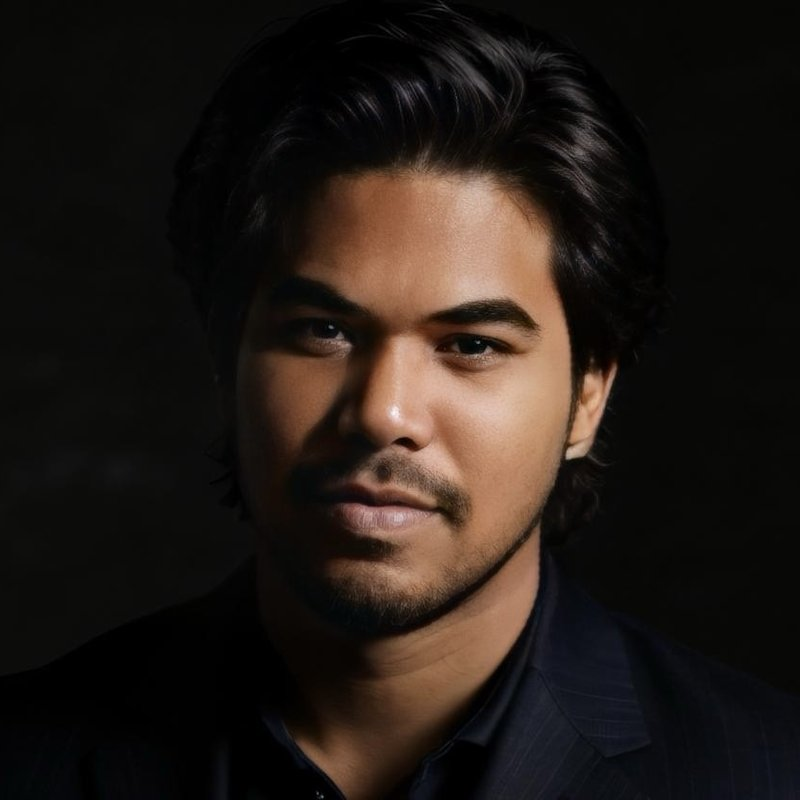
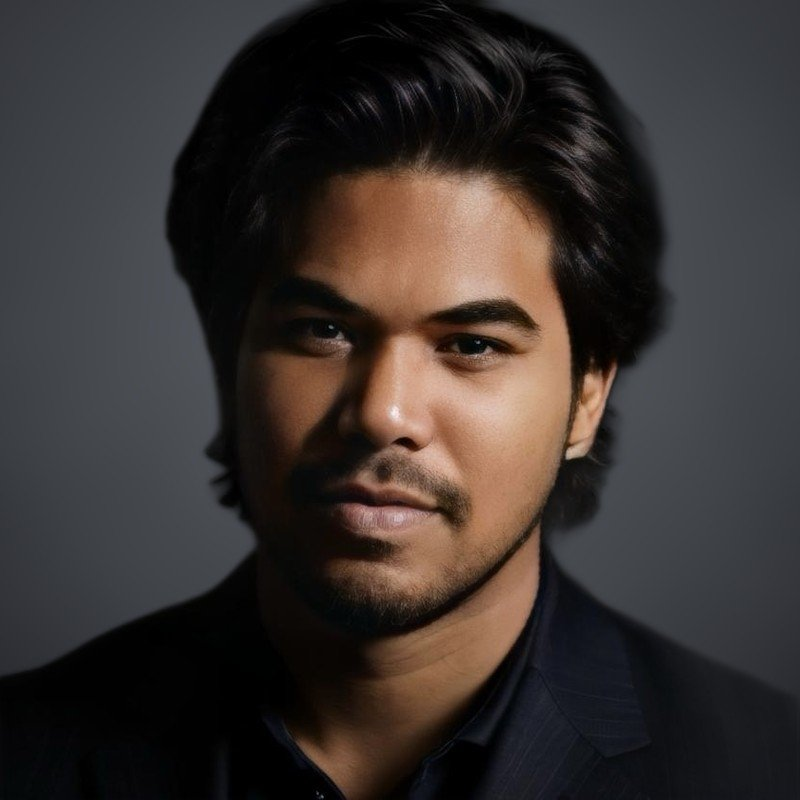
About v1.24: team photos on one charcoal studio backdrop
Claude-Session: https://claude.ai/code/session_012BtyR2i9F3thygBCepPExM

diff --git a/CLAUDE.md b/CLAUDE.md
@@ -17,7 +17,7 @@ Read `README.md` first. Its **Version register** is the single record of which v
 - Always write "virtual Grand Rounds" with a lower-case v.
 - Key figures sit high on the page.
 - Section spacing (agreed 25 Oct 2026): 54px above and below each section on the hub pages (44px on phones), 80px on the homepage (58px on phones); section headings 32px (homepage 44px) above their content.
-- Photos have rounded corners: 12px for photos and video frames, 8px for small thumbnails. Photos of people in team and speaker lists are circles. Full-width background photos (such as the homepage hero) stay square-edged.
+- Photos have rounded corners: 12px for photos and video frames, 8px for small thumbnails. Photos of people in team and speaker lists are circles. Team photos all share one charcoal studio backdrop (his choice, 18 Nov 2026): cut the person out and place them on it, never altering the person; see `assets/team/README.md`. Full-width background photos (such as the homepage hero) stay square-edged.
 - Every page must be SEO-ready: title, description, canonical, Open Graph and JSON-LD.
 - **Patient information pages share one design** (agreed 15 Nov 2026): `_layouts/patient-guide.html`. Each page file holds only its details and text; see "Patient guides" in `README.md`. Every guide has an "In brief" box. Guides use plain headings: Professor Lim removed the numbered steps from Your consultation and Your operation on 15 Nov 2026 ("the numbers don't work"). Your recovery still has them until he reviews it; expect the same. The header has one round picture set in the stone, unique to the page and not a portrait of Professor Lim (exception, his choice on 16 Nov 2026: Your operation shows a real photo of him operating, cropped around his head; AI pictures must never show him). Lists use dots, not dashes. A single word stranded on the last line of an "In brief" point or a paragraph looks jarring to him; the layout avoids it (`text-wrap: pretty`), and wording should still be checked at desktop width. Do not split two-line points evenly (`balance`): he prefers a full first line. Keep each guide visually even: sections of similar length in plain prose paragraphs, without mixing bold lead-ins, bullet lists and one-sentence paragraphs on one page (his comment on Your operation, 15 Nov 2026). References are shown in small print without links. Professor Lim prefers to review and amend one page at a time.
 - **Roles, not names, on patient guides** (15 Nov 2026): write "my administrative team", "a clinical nurse specialist", "a research nurse", because staff change. Names belong on the About page's team section (`/about#team`), which guides link to as "see who is in my team". **Exception, his decision:** where the homepage, About and Contact pages speak to private patients about booking, they name "Maria, my practice manager"; do not change those to a role. The form patients fill in before clinic is the "health questionnaire".

diff --git a/README.md b/README.md
@@ -20,7 +20,7 @@ Versions: drafts are v0.x. The approved version is v1.0. Amendments after approv
 | For patients | `/for-patients` | v1.12 | 15 Nov 2026 | `for-patients/index.html` | `YYYYMMDD-hub-for-patients.html`, saved nightly |
 | For professionals | `/for-professionals` | v1.13 | 15 Nov 2026 | `for-professionals/index.html` | `YYYYMMDD-hub-for-professionals.html`, saved nightly |
 | virtual Grand Rounds | `/virtual-grand-rounds` | v1.10 | 15 Nov 2026 | `virtual-grand-rounds/index.html` | `YYYYMMDD-hub-virtual-grand-rounds.html`, saved nightly |
-| About | `/about` | v1.23 | 18 Nov 2026 | `about/index.html` | `YYYYMMDD-hub-about.html`, saved nightly |
+| About | `/about` | v1.24 | 18 Nov 2026 | `about/index.html` | `YYYYMMDD-hub-about.html`, saved nightly |
 | Contact | `/contact-us` | v1.6 | 15 Nov 2026 | `contact-us/index.html` | `YYYYMMDD-contact.html`, saved nightly |
 | Personalised care | `/personalised-care` | v1.8 | 15 Nov 2026 | `personalised-care/index.html` | not yet saved to Drive (see "Patient guides") |
 | Site map (planning document, not a web page) | none | agreed | 25 Oct 2026 | none | `20261025-sitemap.html` |
@@ -43,6 +43,7 @@ These four, and the approved Personalised care page, use one shared design, `_la
 
 ### Amendment history
 
+- **About v1.24, 18 Nov**: all four team photos (Maria, Christopher, Abigail, Paulo) now share one charcoal studio backdrop, chosen by Professor Lim on "Team photos: backdrop mock-up v0.1" (claude.ai artifact). Each person was cut out of their photo and placed on the same backdrop (soft charcoal, lighter behind the head); faces, hair, clothing and expressions are unchanged. Stray green from the trees was removed from the edges of Maria's hair. Same file names. Sarah's and Michael's photos get the same backdrop when they arrive.
 - **About v1.23, 18 Nov**: Maria Leung's photo replaced with a new headshot Professor Lim supplied (outdoors, navy top), cropped to 800 by 800 with the same framing as the rest of the team, no other change. Same file name, `assets/team/maria-leung.jpg`.
 - **About v1.22, 17 Nov**: Abigail Palmares, surgical care practitioner, added to My team at Professor Lim's request, as a sixth card after Sarah Booth (the grid of two columns by three rows is now full). Photo `assets/team/abigail-palmares.jpg`, cropped from the photo he supplied to 800 by 800 with the same framing as the others. Her one-line description is Claude's draft, for him to check: "Abigail also assists me in the operating theatre, and looks after you on the ward before and after your operation." Still needed: photos of Sarah Booth and Michael Evans.
 - **About v1.21, 17 Nov**: Paulo De Sousa's photo added to My team (`assets/team/paulo-de-sousa.jpg`, from the photo Professor Lim supplied, cropped square to 800 by 800 with the same framing as Christopher's and Maria's, no other change). Still needed: Sarah Booth and Michael Evans.

diff --git a/assets/team/README.md b/assets/team/README.md
@@ -10,6 +10,10 @@ One photo per team member, used in My team on the About page.
 - `abigail-palmares.jpg`: Abigail Palmares, surgical care practitioner (added 17 Nov 2026).
 - Still needed: `sarah-booth.jpg`, `michael-evans.jpg`.
 
+## Backdrop (agreed 18 Nov 2026)
+
+Every team photo sits on the same **charcoal studio backdrop** (Professor Lim's choice): the person is cut out of the supplied photo and placed on a soft charcoal background, lighter behind the head (centre about RGB 92,96,102, edges about 38,40,44). Only the background changes; the person is never altered. Ask Claude to do this for any new photo.
+
 ## Originals
 
 The original photos, and a copy of each crop used here, are kept in Professor Lim's Google Drive: Images > **2026 Team photos**, named `YYYYMMDD-team-firstname-lastname-original` (as supplied) and `YYYYMMDD-team-firstname-lastname.jpg` (the crop). Add new team photos there as well.
